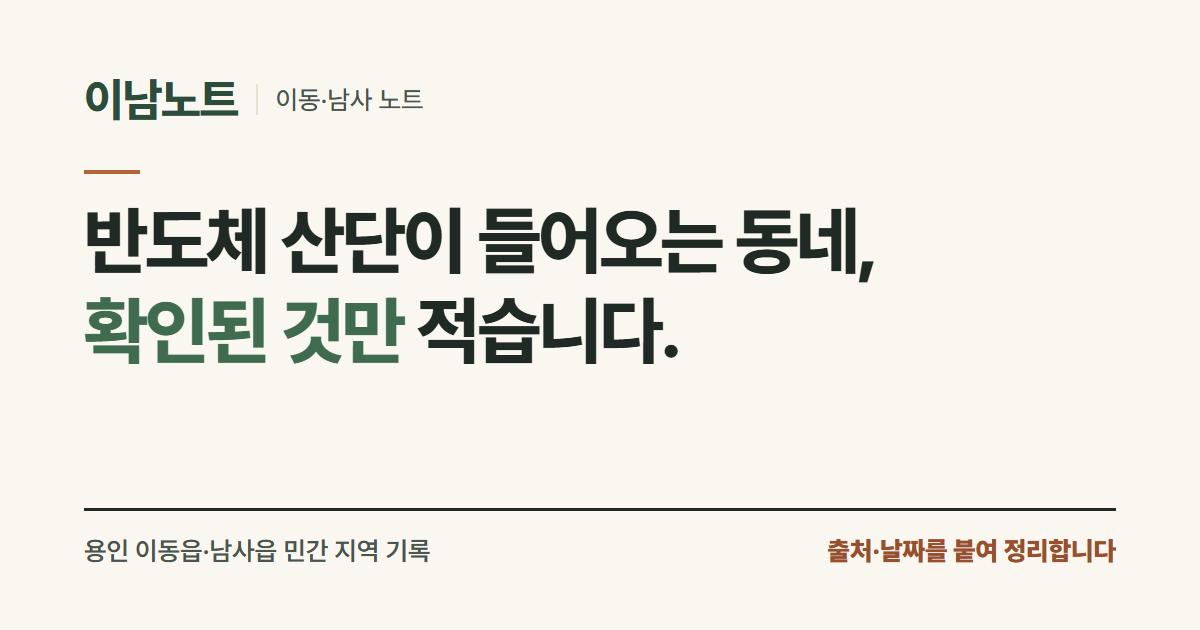
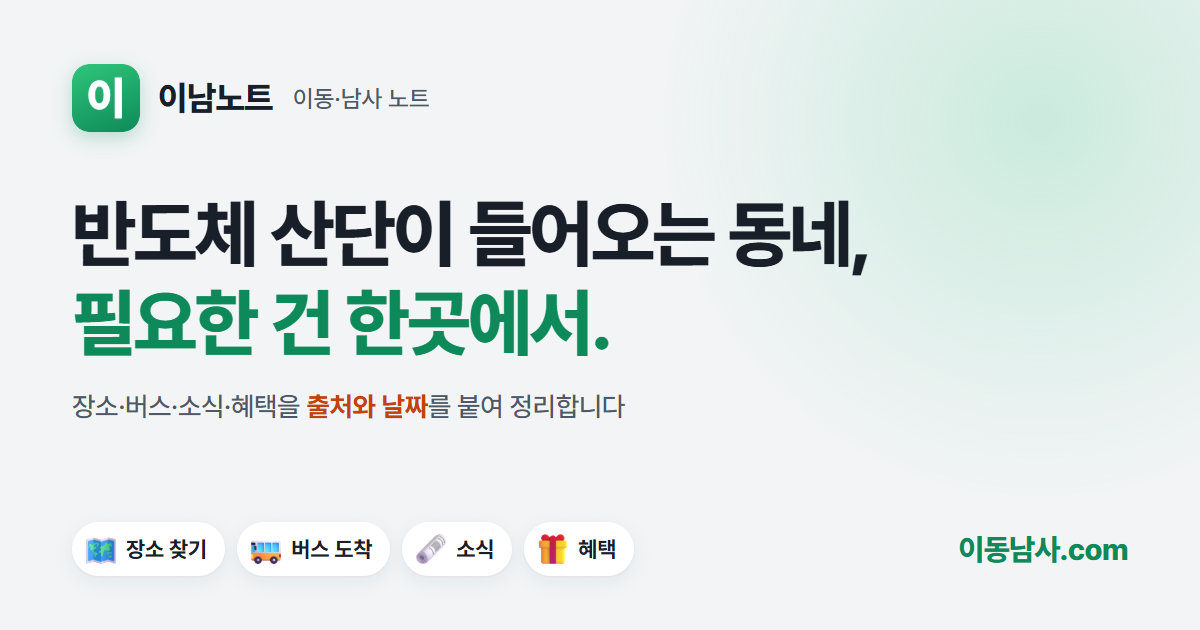
이동남사.com 연결 + 용인 지원사업 GitHub 자동 갱신 + 링크 미리보기 새로
- arrive.js: 공개 주소 목록 대신 '미리보기면 PC 서버, 아니면 중계'로 판단(새 도메인에서도 버스 중계)
- scripts/collect_programs.py: 중소벤처24 공고·행사·K-Startup을 모아 레이더와 같은 '용인' 규칙으로 거름(공개 절차 3d ①)
- notices.yml: '지원사업 받기' 단계 → data/programs.js도 하루 두 번 갱신
- 모든 쪽에 canonical·og:url·og:image(https://xn--q20bn4dp0plyg.com/), robots.txt·sitemap.xml
- og.png를 지금 화면 색으로 다시(scripts/og.html → scripts/build_og.py)

Claude-Session: https://claude.ai/code/session_01XnTotiwr3ULmVfWFM8KYqa

diff --git a/scripts/og.html b/scripts/og.html
@@ -1,0 +1,51 @@
+<!doctype html>
+<!-- 링크 미리보기 그림 og.png 원본(1200×630, 2026-10-26 도메인 연결 때 지금 화면 색으로 다시). 만들기: python scripts/build_og.py
+     색은 style.css 토큰 값을 그대로 옮겼다. 카카오톡은 가운데를 잘라 보여 줄 때가 있어 글은 왼쪽·가운데에 모은다. -->
+<html lang="ko">
+<head>
+<meta charset="utf-8">
+<link rel="stylesheet" href="https://cdn.jsdelivr.net/gh/orioncactus/pretendard@v1.3.9/dist/web/variable/pretendardvariable.min.css">
+<style>
+  :root { --bg: #F2F4F6; --surface: #FFFFFF; --ink: #191F28; --ink-2: #4E5968; --line: #E5E8EB;
+          --moss: #0E8A5A; --leaf: #2FC67A; --clay-ink: #C2410C; }
+  * { box-sizing: border-box; margin: 0; }
+  body { width: 1200px; height: 630px; overflow: hidden; background: var(--bg); color: var(--ink);
+         font-family: "Pretendard Variable", Pretendard, sans-serif; word-break: keep-all; -webkit-font-smoothing: antialiased; }
+  .card { position: absolute; inset: 0; padding: 64px 72px 0; }
+  .glow { position: absolute; right: -220px; top: -260px; width: 760px; height: 760px;
+          background: radial-gradient(closest-side, rgba(47, 198, 122, .20), rgba(47, 198, 122, 0)); }
+  .brand { display: flex; align-items: center; gap: 18px; position: relative; }
+  .brand img { width: 68px; height: 68px; border-radius: 17px; box-shadow: 0 6px 18px rgba(14, 138, 90, .25); }
+  .brand b { font-size: 34px; font-weight: 800; letter-spacing: -.02em; }
+  .brand span { font-size: 24px; color: var(--ink-2); font-weight: 500; margin-left: 2px; }
+  h1 { position: relative; margin-top: 58px; font-size: 74px; line-height: 1.2; font-weight: 800; letter-spacing: -.035em; }
+  h1 em { font-style: normal; color: var(--moss); }
+  .sub { position: relative; margin-top: 22px; font-size: 27px; color: var(--ink-2); font-weight: 500; letter-spacing: -.01em; }
+  .sub b { color: var(--clay-ink); font-weight: 700; }
+  .foot { position: absolute; left: 72px; right: 72px; bottom: 54px; display: flex; align-items: center; justify-content: space-between; }
+  .chips { display: flex; gap: 12px; }
+  .chip { display: flex; align-items: center; gap: 8px; padding: 10px 18px 10px 12px; background: var(--surface);
+          border-radius: 999px; font-size: 22px; font-weight: 700; color: var(--ink);
+          box-shadow: 0 1px 2px rgba(25, 31, 40, .04), 0 6px 18px rgba(25, 31, 40, .06); }
+  .chip img { width: 34px; height: 34px; }
+  .url { font-size: 30px; font-weight: 800; color: var(--moss); letter-spacing: -.02em; }
+</style>
+</head>
+<body>
+<div class="card">
+  <div class="glow"></div>
+  <div class="brand"><img src="../img/icon/icon-512.png" alt=""><b>이남노트</b><span>이동·남사 노트</span></div>
+  <h1>반도체 산단이 들어오는 동네,<br><em>필요한 건 한곳에서.</em></h1>
+  <p class="sub">장소·버스·소식·혜택을 <b>출처와 날짜</b>를 붙여 정리합니다</p>
+  <div class="foot">
+    <div class="chips">
+      <span class="chip"><img src="../img/emoji/map.webp" alt="">장소 찾기</span>
+      <span class="chip"><img src="../img/emoji/bus.webp" alt="">버스 도착</span>
+      <span class="chip"><img src="../img/emoji/news.webp" alt="">소식</span>
+      <span class="chip"><img src="../img/emoji/gift.webp" alt="">혜택</span>
+    </div>
+    <span class="url">이동남사.com</span>
+  </div>
+</div>
+</body>
+</html>

diff --git a/arrive.js b/arrive.js
@@ -2,8 +2,10 @@
    1) 먼저 도착 예정(/api/arrive?station=, 경기도_버스도착정보 — 사용자가 10-18 신청, 같은 날 됨). 정류소 하나에 1건이라 한도도 덜 쓴다.
    2) 그게 안 되면(중계 없음·한도·오류) 버스 위치(/api/bus, 노선마다 '몇 번째 정류소')로 정류소 수만 센다 — 몇 분 뒤인지는 모른다. */
 window.Arrive = (() => {
-  // 묻는 곳: 공개 사이트는 키를 숨기는 Cloudflare 중계(바깥 저장소 relay/, 2026-10-26), 미리보기는 PC 미리보기 서버의 같은 주소. bus.html도 이 값을 쓴다
-  const RELAY = location.hostname.endsWith("github.io") ? "https://inamnote-bus.jkchoi8099.workers.dev" : "";
+  // 묻는 곳: 공개 사이트(github.io·이동남사.com)는 키를 숨기는 Cloudflare 중계(바깥 저장소 relay/, 2026-10-26), 미리보기는 PC 미리보기 서버의 같은 주소. bus.html도 이 값을 쓴다
+  // 10-26 도메인 연결: 공개 주소를 하나씩 적지 않고 미리보기(*.ts.net·이 PC)만 골라낸다. 중계 쪽 허용 주소는 relay/wrangler.toml ALLOW_ORIGINS
+  const PREVIEW = location.protocol === "file:" || /(^|\.)ts\.net$|^localhost$|^127\.|^192\.168\./.test(location.hostname);
+  const RELAY = PREVIEW ? "" : "https://inamnote-bus.jkchoi8099.workers.dev";
   const ARR = RELAY + "/api/arrive", POS = RELAY + "/api/bus";
   const MAX = 14;  // 위치로 셀 때 한 번에 묻는 노선 수. 용인터미널 쪽 정류소는 노선이 27개라 자주 오는 것부터(중계 하루 한도 아끼기)
   const esc = s => String(s ?? "").replace(/[&<>"]/g, c => ({ "&": "&amp;", "<": "&lt;", ">": "&gt;", '"': "&quot;" }[c]));

diff --git a/index.html b/index.html
@@ -11,12 +11,17 @@
 <meta property="og:site_name" content="이남노트">
 <meta property="og:title" content="이남노트 · 이동·남사 길잡이">
 <meta property="og:description" content="반도체 산단이 들어오는 동네, 어디로 가면 되는지 한곳에서. 출처와 날짜를 붙여 정리합니다.">
-<!-- og:image·canonical은 도메인이 정해지면 절대 주소로 넣는다 (og.png 준비됨) -->
+<!-- og:image·canonical은 이동남사.com 영문 변환 주소(2026-10-26 도메인 연결) -->
 <link rel="icon" href="favicon.svg" type="image/svg+xml">
 <link rel="manifest" href="manifest.webmanifest">
 <link rel="apple-touch-icon" href="img/icon/apple-touch-icon.png">
 <meta name="apple-mobile-web-app-title" content="이남노트">
 <script src="pwa.js" defer></script>
+<link rel="canonical" href="https://xn--q20bn4dp0plyg.com/">
+<meta property="og:url" content="https://xn--q20bn4dp0plyg.com/">
+<meta property="og:image" content="https://xn--q20bn4dp0plyg.com/og.png">
+<meta property="og:image:width" content="1200">
+<meta property="og:image:height" content="630">
 <link rel="preconnect" href="https://cdn.jsdelivr.net" crossorigin>
 <link rel="stylesheet" href="https://cdn.jsdelivr.net/gh/orioncactus/pretendard@v1.3.9/dist/web/variable/pretendardvariable-dynamic-subset.min.css">
 <link rel="stylesheet" href="style.css">

diff --git a/notices.html b/notices.html
@@ -11,6 +11,11 @@
 <link rel="apple-touch-icon" href="img/icon/apple-touch-icon.png">
 <meta name="apple-mobile-web-app-title" content="이남노트">
 <script src="pwa.js" defer></script>
+<link rel="canonical" href="https://xn--q20bn4dp0plyg.com/notices.html">
+<meta property="og:url" content="https://xn--q20bn4dp0plyg.com/notices.html">
+<meta property="og:image" content="https://xn--q20bn4dp0plyg.com/og.png">
+<meta property="og:image:width" content="1200">
+<meta property="og:image:height" content="630">
 <link rel="stylesheet" href="https://cdn.jsdelivr.net/gh/orioncactus/pretendard@v1.3.9/dist/web/variable/pretendardvariable-dynamic-subset.min.css">
 <link rel="stylesheet" href="style.css">
 <!-- 시제품(2026-10-12, 2단계 2-1). 데이터: scripts/build_notices.py → data/notices.js. 2026-10-16부터 글을 누르면 이 화면 안 읽기 창(#r=키)에서 본문을 보여 준다(data/notice_bodies.json). 휴대폰 뒤로가기 = 창 닫기. -->

diff --git a/map.html b/map.html
@@ -11,6 +11,11 @@
 <link rel="apple-touch-icon" href="img/icon/apple-touch-icon.png">
 <meta name="apple-mobile-web-app-title" content="이남노트">
 <script src="pwa.js" defer></script>
+<link rel="canonical" href="https://xn--q20bn4dp0plyg.com/map.html">
+<meta property="og:url" content="https://xn--q20bn4dp0plyg.com/map.html">
+<meta property="og:image" content="https://xn--q20bn4dp0plyg.com/og.png">
+<meta property="og:image:width" content="1200">
+<meta property="og:image:height" content="630">
 <link rel="stylesheet" href="https://cdn.jsdelivr.net/gh/orioncactus/pretendard@v1.3.9/dist/web/variable/pretendardvariable-dynamic-subset.min.css">
 <link rel="stylesheet" href="style.css">
 <!-- 바탕 지도: 네이버 지도 Dynamic Map(무료 월 600만 건, 콘솔에서 한도 설정). Client ID는 공개용 값이다. Web 서비스 URL에 등록된 주소에서만 뜬다. -->

diff --git a/install.html b/install.html
@@ -11,6 +11,11 @@
 <link rel="apple-touch-icon" href="img/icon/apple-touch-icon.png">
 <meta name="apple-mobile-web-app-title" content="이남노트">
 <script src="pwa.js" defer></script>
+<link rel="canonical" href="https://xn--q20bn4dp0plyg.com/install.html">
+<meta property="og:url" content="https://xn--q20bn4dp0plyg.com/install.html">
+<meta property="og:image" content="https://xn--q20bn4dp0plyg.com/og.png">
+<meta property="og:image:width" content="1200">
+<meta property="og:image:height" content="630">
 <link rel="stylesheet" href="https://cdn.jsdelivr.net/gh/orioncactus/pretendard@v1.3.9/dist/web/variable/pretendardvariable-dynamic-subset.min.css">
 <link rel="stylesheet" href="style.css">
 <!-- 홈 화면 앱 설치 안내(2026-10-26, 결정 로그 2026-10-16 '앱으로 바꿀까', 공개 절차 3c). 첫 화면 '홈 화면에 이남노트 두기' 줄이 여기로 온다.

diff --git a/weather.html b/weather.html
@@ -11,6 +11,11 @@
 <link rel="apple-touch-icon" href="img/icon/apple-touch-icon.png">
 <meta name="apple-mobile-web-app-title" content="이남노트">
 <script src="pwa.js" defer></script>
+<link rel="canonical" href="https://xn--q20bn4dp0plyg.com/weather.html">
+<meta property="og:url" content="https://xn--q20bn4dp0plyg.com/weather.html">
+<meta property="og:image" content="https://xn--q20bn4dp0plyg.com/og.png">
+<meta property="og:image:width" content="1200">
+<meta property="og:image:height" content="630">
 <link rel="stylesheet" href="https://cdn.jsdelivr.net/gh/orioncactus/pretendard@v1.3.9/dist/web/variable/pretendardvariable-dynamic-subset.min.css">
 <link rel="stylesheet" href="style.css">
 <!-- 2026-10-16 사용자 "날씨를 누르면 다양한 날씨 정보가 뜨게, 네이버·다음에 안 들어가고 이남노트에서 확인할 수 있게".

diff --git a/bus.html b/bus.html
@@ -11,6 +11,11 @@
 <link rel="apple-touch-icon" href="img/icon/apple-touch-icon.png">
 <meta name="apple-mobile-web-app-title" content="이남노트">
 <script src="pwa.js" defer></script>
+<link rel="canonical" href="https://xn--q20bn4dp0plyg.com/bus.html">
+<meta property="og:url" content="https://xn--q20bn4dp0plyg.com/bus.html">
+<meta property="og:image" content="https://xn--q20bn4dp0plyg.com/og.png">
+<meta property="og:image:width" content="1200">
+<meta property="og:image:height" content="630">
 <link rel="stylesheet" href="https://cdn.jsdelivr.net/gh/orioncactus/pretendard@v1.3.9/dist/web/variable/pretendardvariable-dynamic-subset.min.css">
 <link rel="stylesheet" href="style.css">
 <!-- 2026-10-14 시제품(사용자 "지도에 버스가 다니는 걸 실시간으로"). 노선·정류소·경로는 data/bus.js(scripts/build_bus.py),

diff --git a/mart.html b/mart.html
@@ -11,6 +11,11 @@
 <link rel="apple-touch-icon" href="img/icon/apple-touch-icon.png">
 <meta name="apple-mobile-web-app-title" content="이남노트">
 <script src="pwa.js" defer></script>
+<link rel="canonical" href="https://xn--q20bn4dp0plyg.com/mart.html">
+<meta property="og:url" content="https://xn--q20bn4dp0plyg.com/mart.html">
+<meta property="og:image" content="https://xn--q20bn4dp0plyg.com/og.png">
+<meta property="og:image:width" content="1200">
+<meta property="og:image:height" content="630">
 <link rel="stylesheet" href="https://cdn.jsdelivr.net/gh/orioncactus/pretendard@v1.3.9/dist/web/variable/pretendardvariable-dynamic-subset.min.css">
 <link rel="stylesheet" href="style.css">
 <!-- 2026-10-21 시범(사용자 "마트 가격비교도 적당한 곳에 일단 넣어줘 … 위치를 잡을 때 참고하기 편할거 같아").

diff --git a/benefits.html b/benefits.html
@@ -11,6 +11,11 @@
 <link rel="apple-touch-icon" href="img/icon/apple-touch-icon.png">
 <meta name="apple-mobile-web-app-title" content="이남노트">
 <script src="pwa.js" defer></script>
+<link rel="canonical" href="https://xn--q20bn4dp0plyg.com/benefits.html">
+<meta property="og:url" content="https://xn--q20bn4dp0plyg.com/benefits.html">
+<meta property="og:image" content="https://xn--q20bn4dp0plyg.com/og.png">
+<meta property="og:image:width" content="1200">
+<meta property="og:image:height" content="630">
 <link rel="stylesheet" href="https://cdn.jsdelivr.net/gh/orioncactus/pretendard@v1.3.9/dist/web/variable/pretendardvariable-dynamic-subset.min.css">
 <link rel="stylesheet" href="style.css">
 <!-- 2026-10-16. 혜택 목록: scripts/build_benefits.py → data/benefits.js(행안부 공공서비스(혜택) 정보, 자동).

diff --git a/about.html b/about.html
@@ -11,6 +11,11 @@
 <link rel="apple-touch-icon" href="img/icon/apple-touch-icon.png">
 <meta name="apple-mobile-web-app-title" content="이남노트">
 <script src="pwa.js" defer></script>
+<link rel="canonical" href="https://xn--q20bn4dp0plyg.com/about.html">
+<meta property="og:url" content="https://xn--q20bn4dp0plyg.com/about.html">
+<meta property="og:image" content="https://xn--q20bn4dp0plyg.com/og.png">
+<meta property="og:image:width" content="1200">
+<meta property="og:image:height" content="630">
 <link rel="preconnect" href="https://cdn.jsdelivr.net" crossorigin>
 <link rel="stylesheet" href="https://cdn.jsdelivr.net/gh/orioncactus/pretendard@v1.3.9/dist/web/variable/pretendardvariable-dynamic-subset.min.css">
 <link rel="stylesheet" href="style.css">

diff --git a/news.html b/news.html
@@ -16,6 +16,11 @@
 <link rel="apple-touch-icon" href="img/icon/apple-touch-icon.png">
 <meta name="apple-mobile-web-app-title" content="이남노트">
 <script src="pwa.js" defer></script>
+<link rel="canonical" href="https://xn--q20bn4dp0plyg.com/news.html">
+<meta property="og:url" content="https://xn--q20bn4dp0plyg.com/news.html">
+<meta property="og:image" content="https://xn--q20bn4dp0plyg.com/og.png">
+<meta property="og:image:width" content="1200">
+<meta property="og:image:height" content="630">
 <link rel="preconnect" href="https://cdn.jsdelivr.net" crossorigin>
 <link rel="stylesheet" href="https://cdn.jsdelivr.net/gh/orioncactus/pretendard@v1.3.9/dist/web/variable/pretendardvariable-dynamic-subset.min.css">
 <link rel="stylesheet" href="style.css">
